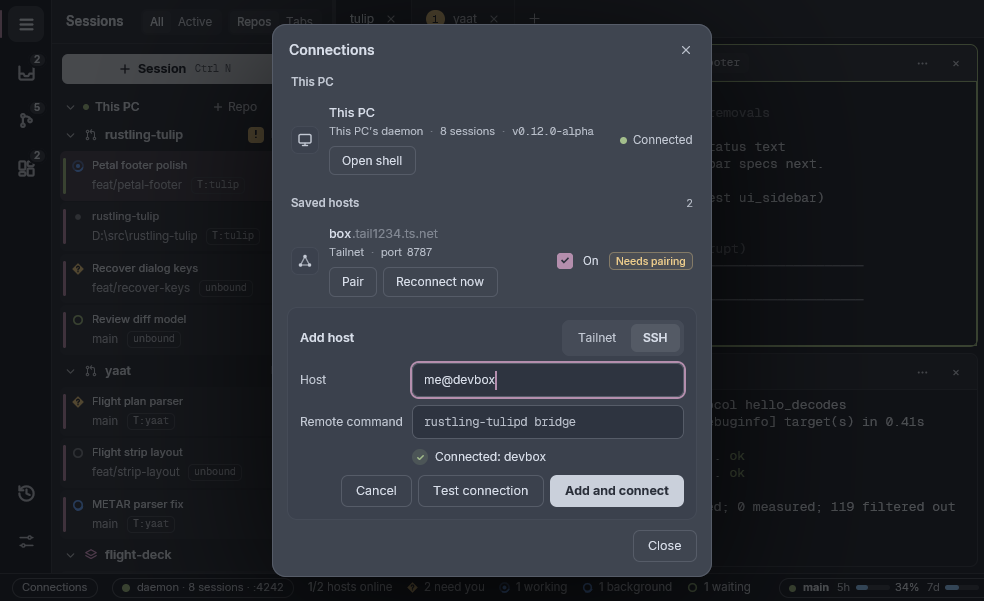
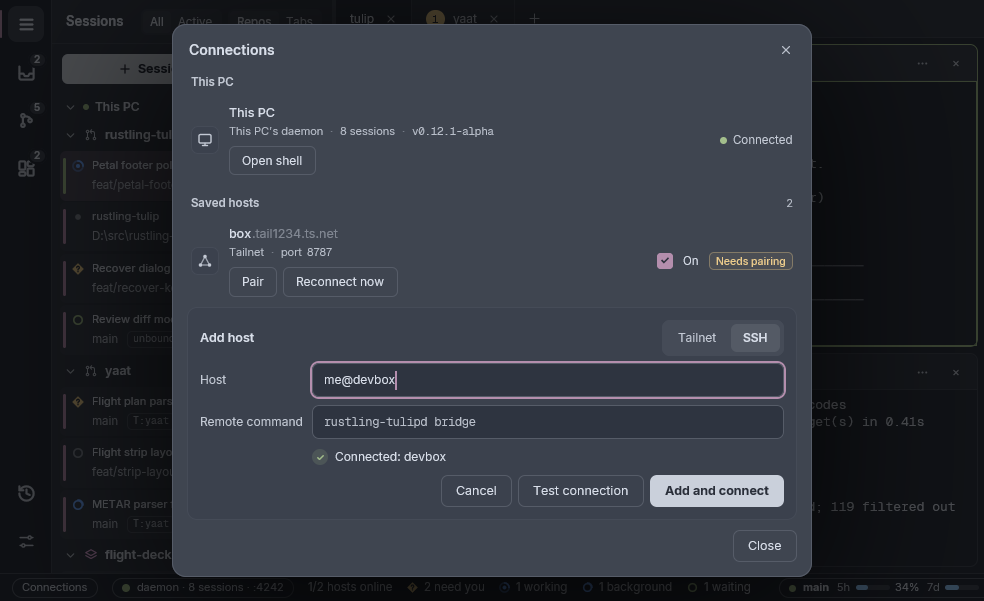
docs: refresh the README for v0.12.1-alpha

diff --git a/README.md b/README.md
@@ -54,7 +54,7 @@ It is alpha software.
 ### Claude accounts
 
 - Save several Claude logins and switch between them. The footer shows the account in use with its five-hour and weekly usage, and the account list adds its Fable weekly limit while Fable is in use; click it to switch, turn auto-switch on and see when your accounts run dry.
-- Settings › Accounts lists your saved accounts to switch, rename, reorder, remove or add, logs in a new account in a terminal session, and sets auto-switch's threshold, cooldown, strategy and forecast window.
+- Settings › Accounts lists your saved accounts to switch, rename, reorder, remove (after you confirm) or add, logs in a new account in a terminal session, and sets auto-switch's threshold, cooldown, strategy and forecast window.
 - A toast tells you when auto-switch changes accounts, finds every account used up, or stops.
 
 ![The footer's account popover: each saved account's five-hour and weekly usage with its resets, a Switch button, the account in use, and auto-switch at 85%](docs/images/accounts.png)
@@ -131,7 +131,7 @@ It is alpha software.
 - Start the daemon at login, the folder worktrees go in, and Manage worktrees to clean up old ones.
 - Appearance: themes for the whole window and its terminals (built-in ones, Nord by default, or your own), session accent colours, terminal and interface fonts (Inter, Geist, Schibsted Grotesk or any installed font), the interface's text size and weight, the terminal's weight and frame width per app, repo, workspace or session, font sizes per session or per tab, and the window title.
 - The Themes window previews every theme with its contrast check, edits any colour of your own copy, and exports or imports theme files.
-- A search box finds any setting on any page (Ctrl+F), and changes wait for OK or Apply; Cancel or Esc discards them.
+- A search box finds any setting on any page (Ctrl+F), and changes wait for OK or Apply; Cancel or Esc discards them. Appearance and the Themes picker preview a change at once.
 - The Chat section sets Compact or Comfortable and the chat's maximum width, and Diagnostics has a Detailed logging switch and Open logs folder.
 - Update notices have a What's new button with the release notes for every version since the one you had.
 
@@ -155,6 +155,15 @@ On a Mac with Apple silicon (there is no build for Intel Macs):
 4. Secret environment rows need Windows Credential Manager, so on a Mac a session with a secret row will not start; give it the secret through an `${env:NAME}` row instead.
 
 Remote access over Tailscale needs [Tailscale](https://tailscale.com/) on both PCs, signed in to the same tailnet, with HTTPS certificates turned on for it. Remote access over SSH needs only an SSH login to the other PC.
+
+## What's new in v0.12.1-alpha
+
+- Settings' Install hooks, Accounts, Appearance and the Dashboard's stored key wait for OK or Apply, and Cancel leaves them as they were.
+- With Claude's vim editor mode on, sessions show the right state and Chat answers land as text.
+- Popovers, menus, dialogs and tooltips are wider, so their text fits on fewer lines.
+- A session started with a first prompt on a cmd host, such as the phone's New session, stays open.
+
+The full list is in the [release notes](https://github.com/leftos/rustling-tulip/releases/tag/v0.12.1-alpha).
 
 ## What's new in v0.12.0-alpha
 
